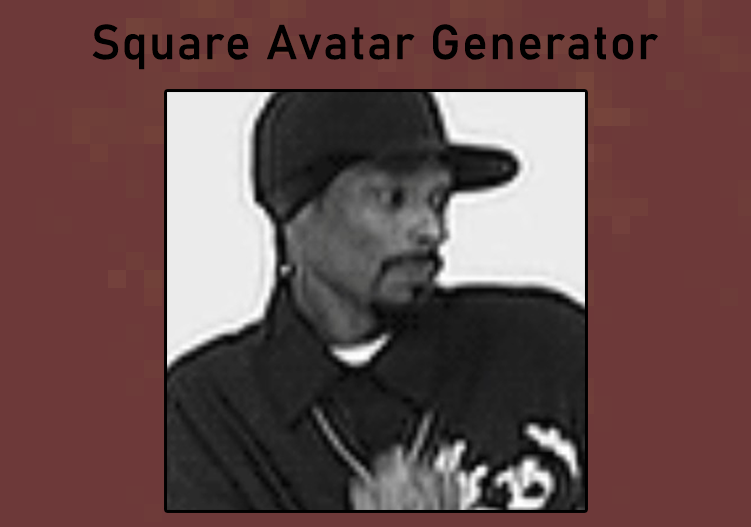
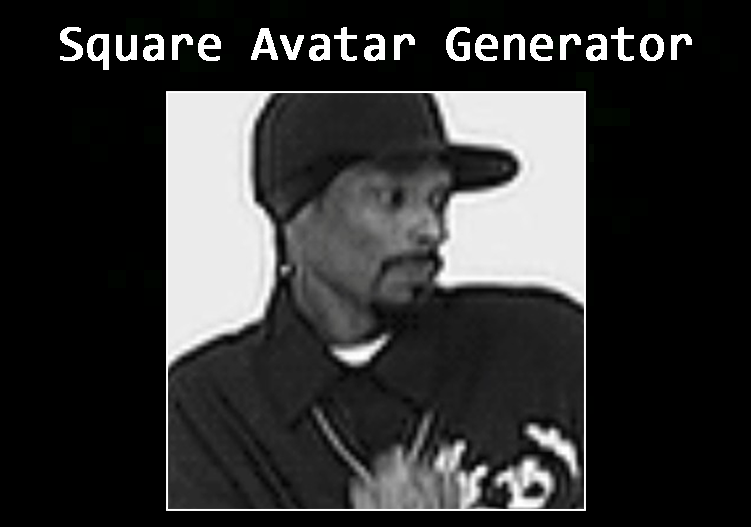
improved layout

diff --git a/index.html b/index.html
@@ -2,7 +2,7 @@
 <html lang="en">
 <head>
 	<meta charset="utf-8">
-	<title>Free square avatars</title>
+	<title>Free Square Avatar [ /!\ WINNER!!! /!\ ]</title>
 	<meta name="viewport" content="width=device-width, initial-scale=1">
     <meta property="og:title" content="square avatar generator" />
     <meta property="og:description" content="just right-click save it! it's free!" />
@@ -10,13 +10,15 @@
 
     <style>
         body {
-            background-color: #492d2e;
+            background-color: #ffffff;
+			color: #000000;
+			font-family: consolas, monospace, sans-serif;
         }
         h1 {
-            font-family: 'consolas', monospace;
+            font-family: consolas, monospace, sans-serif;
         }
         h2 {
-            font-family: 'consolas', monospace;
+            font-family: consolas, monospace, sans-serif;
         }
         .box {
             display: block;
@@ -30,17 +32,10 @@
             display: inline-block;
             padding: 5px;
         }
-        .rainbow-text {
-            font-family: consolas, monospace, sans-serif;
-            background-image: linear-gradient(to left, violet, indigo, blue, green, yellow, orange, red);
-            -webkit-background-clip: text;
-            background-clip: text;
-            color: transparent;
-            -webkit-text-fill-color: transparent;
-        }
     </style>
 </head>
 <body>
+	<p style="margin-bottom: -150px;"><a href="https://github.com/researcx/square_avatar" target="_blank"><img src="contact.gif" /></a></p>
     <div class="box">
         <h1>square avatar generator</h1>
         <h2>just right-click save it! it's free!</h2>
@@ -49,6 +44,7 @@
         </p>
         <input type="file" id="rawfile">
         <p>(Just click on the image to download, since phones don't have right click. Use Twitter web to upload so it stays transparent.)</p>
+		<p><img src="fire_under_construction.gif" /></p>
     </div>
 </body>
 <script type="text/javascript">
@@ -82,8 +78,9 @@
                     img.onload = () => {
                         context.drawImage(mask, 0, 0, 400, 400);
                         context.globalCompositeOperation = 'source-out';
+						
                         var scale = ScaleImage(img.width, img.height, 400, 400, false);
-                        context.drawImage(img, scale.targetleft, scale.targettop, scale.width, scale.height);
+                        context.drawImage(img, scale.targetleft + 50, scale.targettop + 50, scale.width - 100, scale.height - 100);
                     }
                 }
             }
